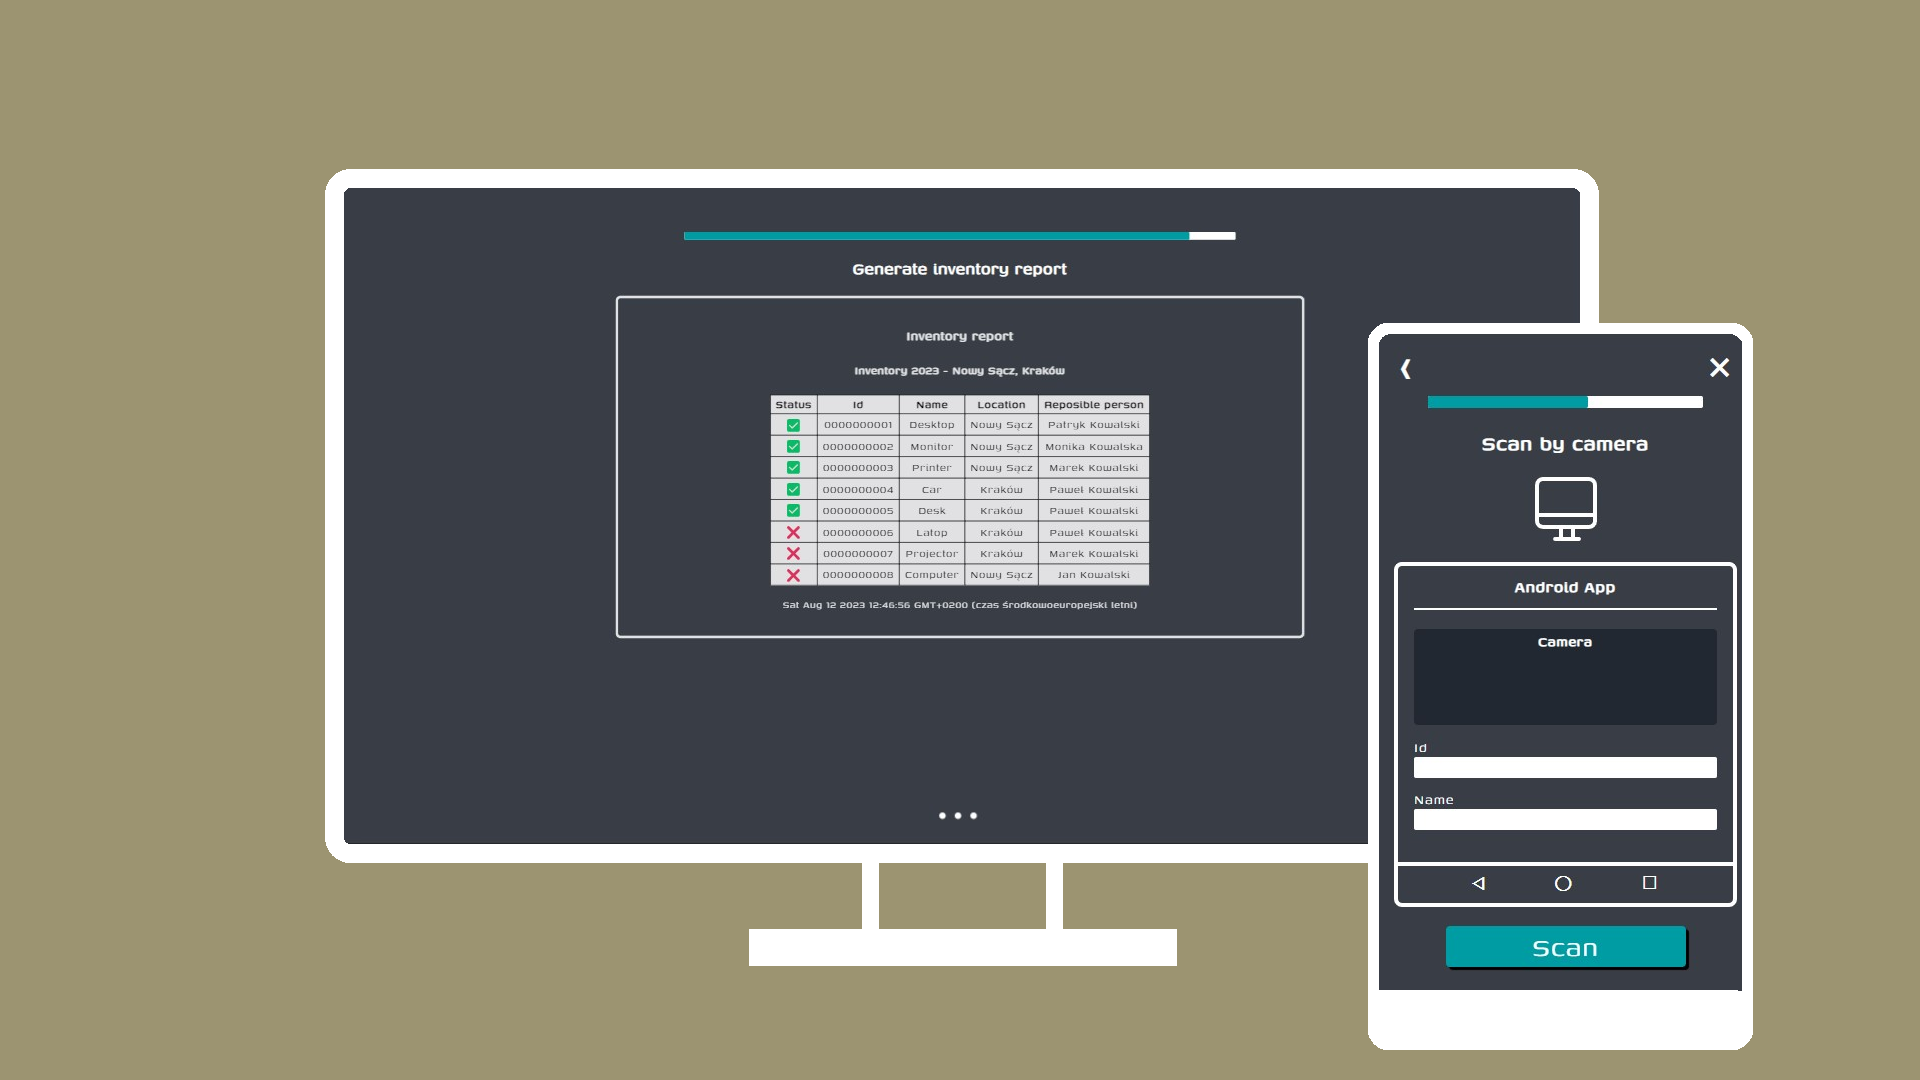
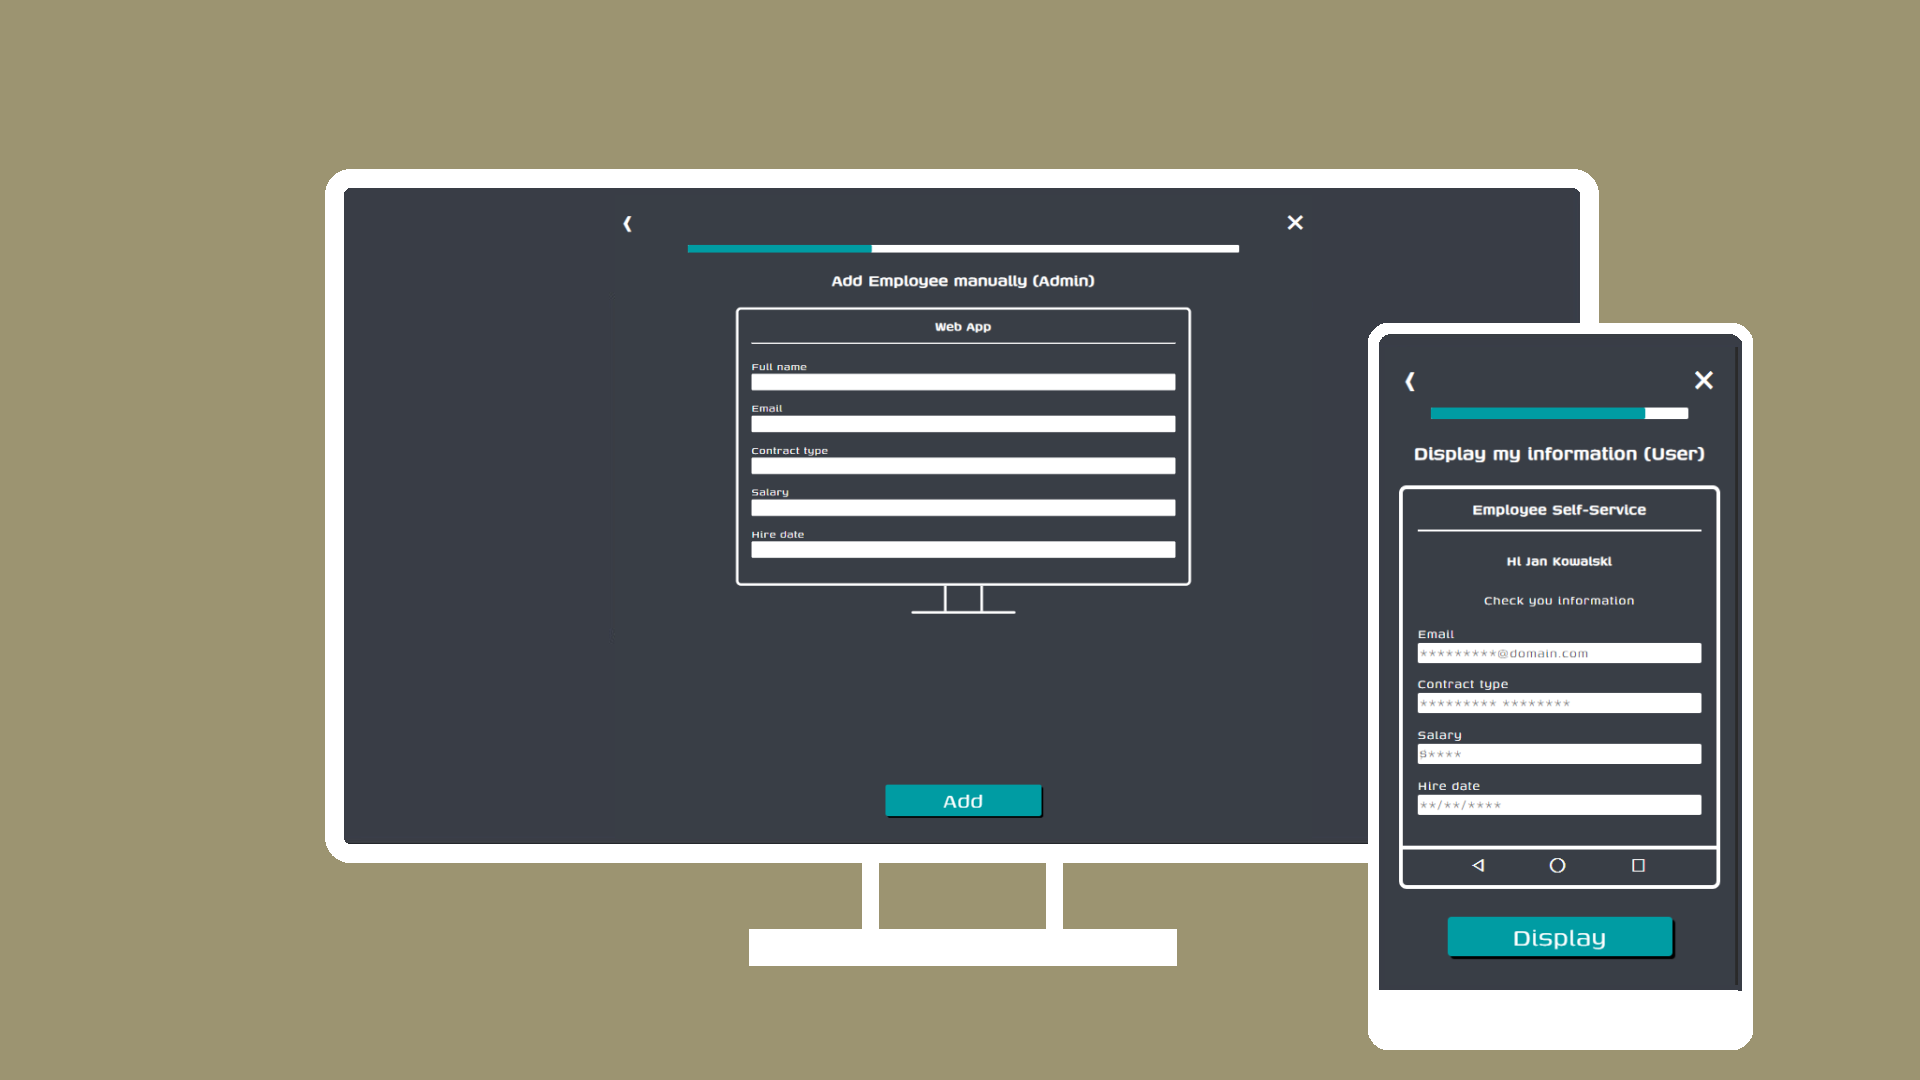
Update preview

Changed region(s): [[0.7188, 0.3361, 0.9062, 0.9167], [0.3438, 0.2139, 0.6562, 0.6111], [0.4375, 0.7028, 0.5625, 0.7639]]

diff --git a/index.html b/index.html
@@ -23,7 +23,7 @@
   <meta property="og:image:width" content="1920" />
   <meta property="og:image:height" content="1080" />
   <meta property="og:image:alt"
-    content="Inventory report on desktop screen and label scaning by camera on mobile screen" />
+    content="Adding employee on desktop screen and displaying employee data on mobile screen" />
   <meta property="og:description"
     content="Website showing how employee management system can works using interactable simulation." />
   <meta property="og:site_name" content="Interactive employee management simulator" />

diff --git a/README.md b/README.md
@@ -2,7 +2,7 @@
 
 ## Website showing how employee management system can works using interactable simulation.
 
-## [Demo](https://pawelgargula.github.io/asset-management-simulator/)
+## [Demo](https://pawelgargula.github.io/employee-management-simulator/)
 
 ## Simulation steps
 
